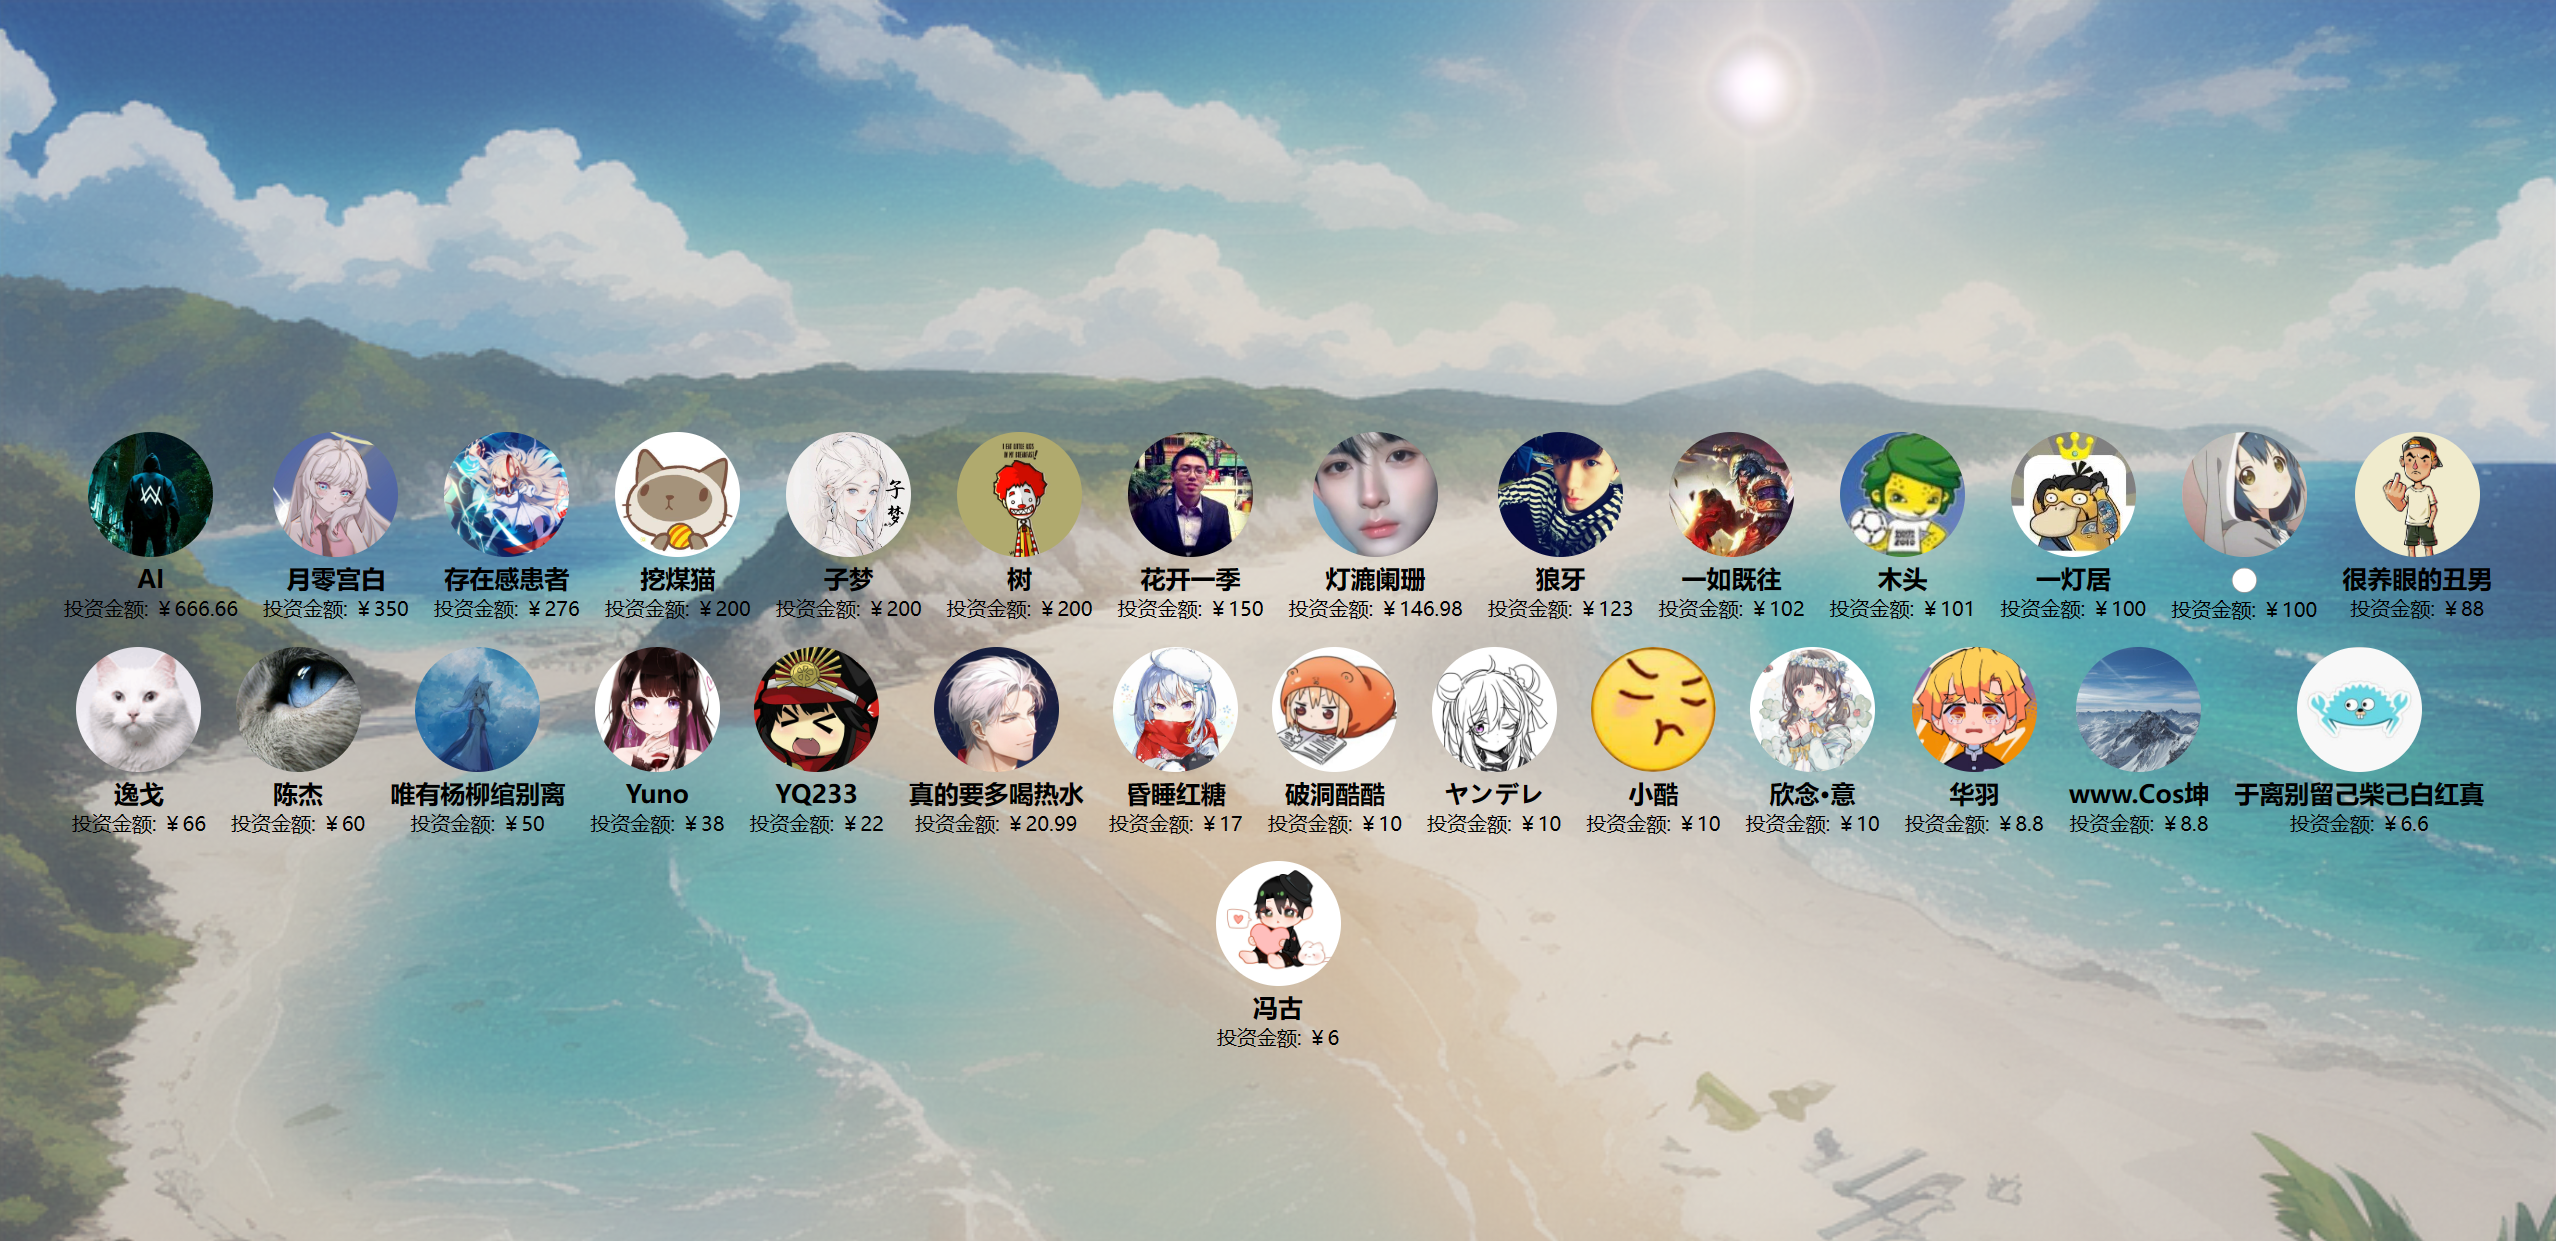
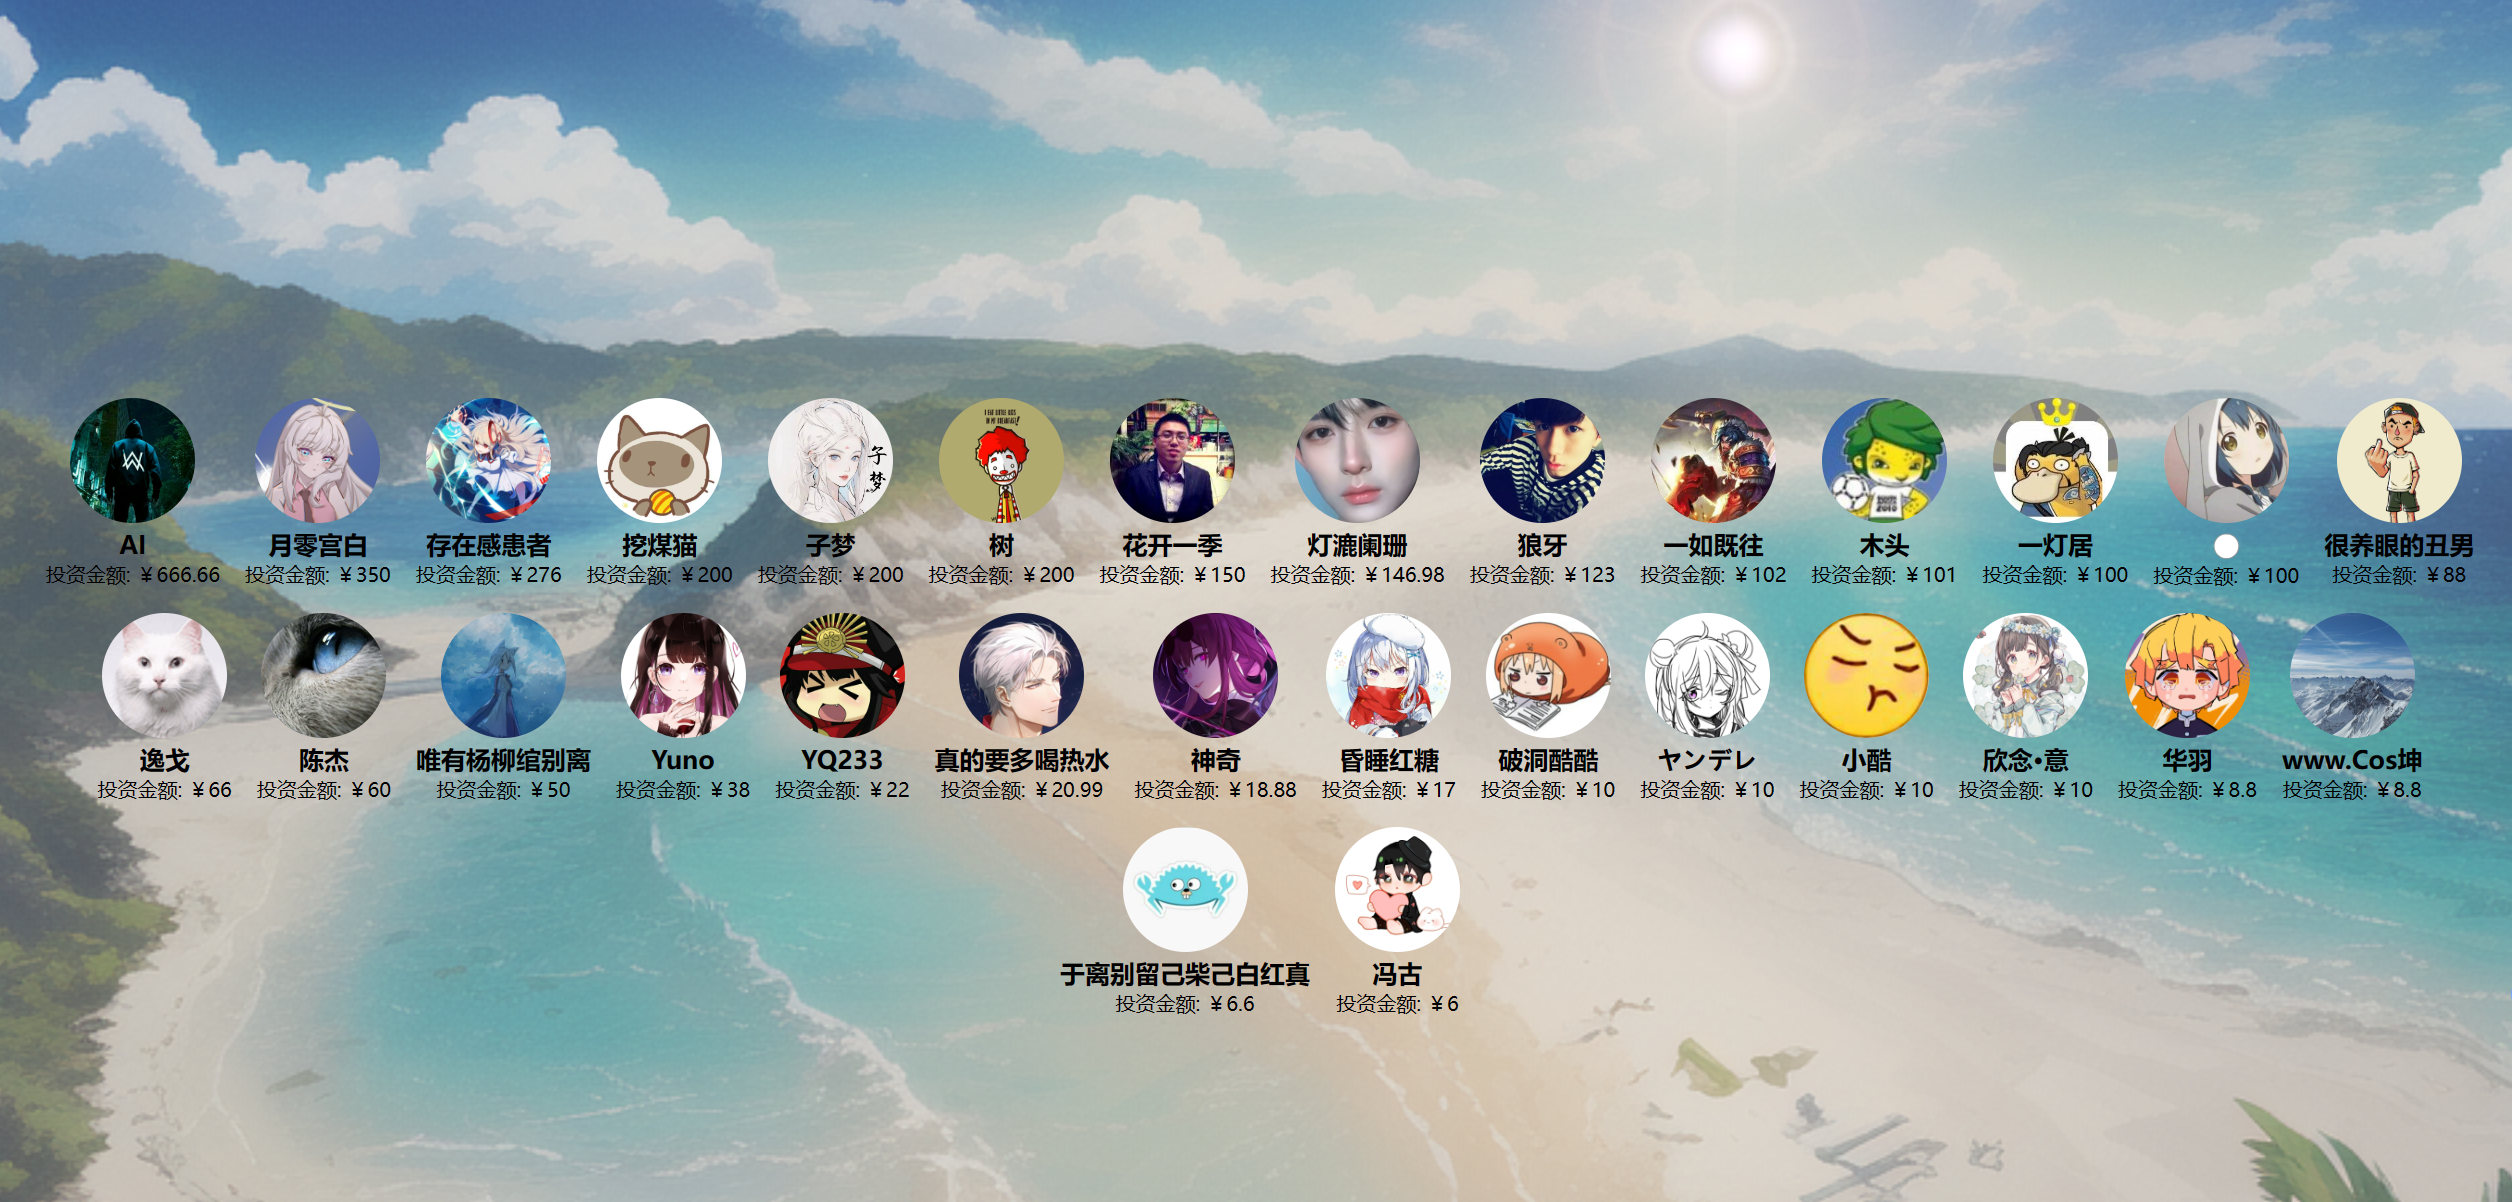
更新投资人信息

diff --git a/docs/投资人/index.html b/docs/投资人/index.html
@@ -152,6 +152,11 @@
             amount: "￥20.99"
         },
         {
+            name: "神奇",
+            avatar: "https://images.cnblogs.com/cnblogs_com/ikaros-521/2328032/o_230818010903_QQ%E5%9B%BE%E7%89%8720230818090732.png",
+            amount: "￥18.88"
+        },
+        {
             name: "昏睡红糖",
             avatar: "https://images.cnblogs.com/cnblogs_com/ikaros-521/2328032/o_230719074436_%E6%98%8F%E7%9D%A1%E7%BA%A2%E7%B3%96.jpg",
             amount: "￥17"
